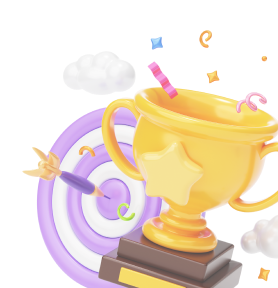
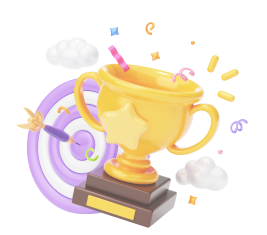
feat change ref ui

diff --git a/components/Ref/Ref.tsx b/components/Ref/Ref.tsx
@@ -19,7 +19,7 @@ import { shareOnMobile } from 'react-mobile-share';
 
 const IsNotVip = () => {
   return (
-    <p className="text-slate-400 text-center">
+    <p className="text-slate-400 text-center p-4">
       Unlock VIP Pass to use this feature
     </p>
   );
@@ -43,7 +43,7 @@ const IsVip = ({
     }, 1000);
   };
   return (
-    <div className="pb-7 lg:pb-0">
+    <div className="pb-7 lg:pb-0 lg:pt-4 lg:px-4 lg:bg-gradient-to-b lg:from-[#37BFEA] lg:to-[#0B0F3F] rounded-xl">
       <p className="text-slate-50">Referral Link</p>
       <div className="flex justify-between items-center rounded-[6px] border border-slate-700 bg-slate-800 px-3 py-2 mt-2 mb-3">
         <p className="text-slate-50 truncate pr-3">{refUrl}</p>
@@ -63,7 +63,7 @@ const IsVip = ({
         </div>
       </div>
       <Button
-        className="bg-gradient-to-r from-[#9747FF] to-[#EA1187] flex gap-3 items-center justify-center lg:hidden"
+        className="bg-gradient-to-r from-[#37BFEA] to-[#0B0F3F] flex gap-3 items-center justify-center lg:hidden"
         onClick={() =>
           shareOnMobile({
             text: 'Hey checkout our collections',
@@ -92,61 +92,61 @@ const IsVip = ({
         <p className="text-gray-50 text-sm leading-5">
           10% of our revenue during the event will be given to the referrer!
         </p>
-        <RefMission totalRef={totalRef} />
+        {/* <RefMission totalRef={totalRef} /> */}
       </div>
       <Image
         src="/image/ref-activitive.png"
         alt="ref-act"
-        width={183}
-        height={161}
-        className="absolute right-0 bottom-0"
+        width={267}
+        height={235}
+        className="ml-auto"
       />
     </div>
   );
 };
 
 export default function Ref() {
-  const [isVip, setIsVip] = useState(false);
+  const [isVip, setIsVip] = useState(true);
   const [totalRef, setTotalRef] = useState(0);
 
-//   const checkMinted = async (walletAddress: string) => {
-//     try {
-//       const { data } = await axios.post(
-//         `${process.env.NEXT_PUBLIC_API_URL}/checkMinted`,
-//         { walletAddress }
-//       );
-//       setIsVip(data.isMinted);
-//     } catch (error) {
-//       console.error('Error checking minted status:', error);
-//     }
-//   };
+  //   const checkMinted = async (walletAddress: string) => {
+  //     try {
+  //       const { data } = await axios.post(
+  //         `${process.env.NEXT_PUBLIC_API_URL}/checkMinted`,
+  //         { walletAddress }
+  //       );
+  //       setIsVip(data.isMinted);
+  //     } catch (error) {
+  //       console.error('Error checking minted status:', error);
+  //     }
+  //   };
 
-//   const getTotalRef = async (walletAddress: string) => {
-//     try {
-//       const { data } = await axios.get(
-//         `${process.env.NEXT_PUBLIC_API_URL}/totalRef/${walletAddress}`
-//       );
-//       setTotalRef(data);
-//     } catch (error) {
-//       console.error('Error checking minted status:', error);
-//     }
-//   };
+  //   const getTotalRef = async (walletAddress: string) => {
+  //     try {
+  //       const { data } = await axios.get(
+  //         `${process.env.NEXT_PUBLIC_API_URL}/totalRef/${walletAddress}`
+  //       );
+  //       setTotalRef(data);
+  //     } catch (error) {
+  //       console.error('Error checking minted status:', error);
+  //     }
+  //   };
 
-//   TODO: check ref
-//   useEffect(() => {
-//     const checkAndFetch = () => {
-//       if (userFriendlyAddress) {
-//         checkMinted(userFriendlyAddress);
-//         getTotalRef(userFriendlyAddress);
-//       }
-//     };
+  //   TODO: check ref
+  //   useEffect(() => {
+  //     const checkAndFetch = () => {
+  //       if (userFriendlyAddress) {
+  //         checkMinted(userFriendlyAddress);
+  //         getTotalRef(userFriendlyAddress);
+  //       }
+  //     };
 
-//     checkAndFetch();
+  //     checkAndFetch();
 
-//     const interval = setInterval(checkAndFetch, 60000);
+  //     const interval = setInterval(checkAndFetch, 60000);
 
-//     return () => clearInterval(interval);
-//   }, [userFriendlyAddress]);
+  //     return () => clearInterval(interval);
+  //   }, [userFriendlyAddress]);
 
   return (
     <>
@@ -165,11 +165,11 @@ export default function Ref() {
             className="p-0 rounded-none overflow-hidden border-none bg-transparent w-[353px]"
           >
             <div className="relative rounded-xl gradient-border">
-              <div className="bg-gradient-to-l from-[#37BFEA66] to-[#0B0F3F66] rounded-xl p-4">
+              <div className="bg-gradient-to-l from-[#37BFEA66] to-[#0B0F3F66] rounded-xl overflow-hidden p-[1px]">
                 {isVip ? (
-                    // TODO: Wallet address
+                  // TODO: Wallet address
                   <IsVip
-                    walletAddress={"userFriendlyAddress"}
+                    walletAddress={'userFriendlyAddress'}
                     totalRef={totalRef}
                   />
                 ) : (
@@ -188,7 +188,7 @@ export default function Ref() {
               <p className="hidden lg:block">Refer Friends for Prizes</p>
             </Button>
           </DrawerTrigger>
-          <DrawerContent>
+          <DrawerContent className='bg-[#101111]'>
             <DrawerHeader className="flex items-center justify-between">
               <DrawerTitle className="text-white">
                 Refer Friends for Prizes
@@ -201,7 +201,7 @@ export default function Ref() {
               {isVip ? (
                 // Wallet Address
                 <IsVip
-                  walletAddress={"userFriendlyAddress"}
+                  walletAddress={'userFriendlyAddress'}
                   totalRef={totalRef}
                 />
               ) : (
